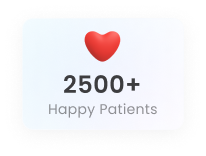
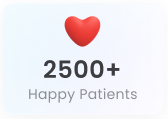
Refinement burger menu ul>li 2

Changed region(s): [[0.1488, 0.479, 0.8333, 0.8824], [0.3571, 0.1261, 0.625, 0.3529], [0.4464, 0.3277, 0.5655, 0.4034]]

diff --git a/css/style.css b/css/style.css
@@ -198,6 +198,10 @@ header .container .burger-menu_nav ul li .burger-menu_link {
     margin-right: 30px;
   }
 }
+header .container .burger-menu_nav ul li .burger-menu_link:hover {
+  color: #40A3F8;
+  opacity: 1;
+}
 header .container .burger-menu_active .burger-menu_nav {
   right: 0;
   -webkit-transition: 0.4s;
@@ -422,7 +426,7 @@ header .container .burger-menu_active .burger-menu_nav {
 }
 .main_banner .container .container_box_text form .form_select_geo:before {
   content: "";
-  background-image: url("/images/location_svg_4.svg");
+  background-image: url("../images/location_svg_4.svg");
   height: 18px;
   width: 15px;
   background-size: cover;
@@ -708,23 +712,23 @@ header .container .burger-menu_active .burger-menu_nav {
 }
 @media screen and (max-width: 470px) {
   .main_banner .female-doctor .icon_happy_patient {
-    left: 47%;
+    left: 52%;
   }
 }
 .main_banner .female-doctor .icon_happy_patient img {
-  width: 162px;
-  height: 112px;
+  width: 130px;
+  height: 90px;
 }
 @media screen and (max-width: 620px) {
   .main_banner .female-doctor .icon_happy_patient img {
-    width: 140px;
-    height: 90px;
+    width: 120px;
+    height: 85px;
   }
 }
 @media screen and (max-width: 470px) {
   .main_banner .female-doctor .icon_happy_patient img {
-    width: 100px;
-    height: 70px;
+    width: 90px;
+    height: 60px;
   }
 }
 .main_banner .female-doctor .icon_patient_review {
@@ -873,7 +877,7 @@ header .container .burger-menu_active .burger-menu_nav {
   align-items: center;
   text-decoration: none;
 }
-.three_easy_steps .container .box_content .content a h4 {
+.three_easy_steps .container .box_content .content a .span_main {
   font-family: "Roboto", sans-serif;
   font-weight: 500;
   font-size: 20px;
@@ -884,17 +888,17 @@ header .container .burger-menu_active .burger-menu_nav {
   padding-top: 26px;
 }
 @media screen and (max-width: 600px) {
-  .three_easy_steps .container .box_content .content a h4 {
+  .three_easy_steps .container .box_content .content a .span_main {
     font-size: 18px;
     line-height: 30px;
   }
 }
 @media screen and (max-width: 428px) {
-  .three_easy_steps .container .box_content .content a h4 {
+  .three_easy_steps .container .box_content .content a .span_main {
     padding-bottom: 0;
   }
 }
-.three_easy_steps .container .box_content .content a p {
+.three_easy_steps .container .box_content .content a .span_secondary {
   font-family: "Roboto", sans-serif;
   font-weight: 400;
   font-size: 12px;
@@ -905,13 +909,13 @@ header .container .burger-menu_active .burger-menu_nav {
   margin: auto;
 }
 @media screen and (max-width: 600px) {
-  .three_easy_steps .container .box_content .content a p {
+  .three_easy_steps .container .box_content .content a .span_secondary {
     font-size: 10px;
     line-height: 18px;
   }
 }
 @media screen and (max-width: 428px) {
-  .three_easy_steps .container .box_content .content a p {
+  .three_easy_steps .container .box_content .content a .span_secondary {
     padding-bottom: 50px;
   }
 }
@@ -988,7 +992,7 @@ header .container .burger-menu_active .burger-menu_nav {
 }
 @media screen and (max-width: 428px) {
   .quality_doctors .container img {
-    height: 40vh;
+    height: 36vh;
   }
 }
 .quality_doctors .container .box_text {

diff --git a/index.html b/index.html
@@ -88,9 +88,9 @@
                         <img src="images/search.png" alt="search">
                     </div>
                     <a href="#">
-                        <h4>Find best doctor’s</h4>
-                        <p>Find your doctor easily with a minimum of effort. We've kept everything organised for
-                            you.</p>
+                        <span class="span_main">Find best doctor’s</span>
+                        <span class="span_secondary">Find your doctor easily with a minimum of effort. We've kept everything organised for
+                            you.</span>
                     </a>
                 </div>
                 <div class="content">
@@ -98,9 +98,9 @@
                         <img src="images/calendar.png" alt="calendar">
                     </div>
                     <a href="#">
-                        <h4>Get Appointment</h4>
-                        <p>Ask for an appointment of the doctor quickly with almost a single click. We take care of the
-                            rest.</p>
+                        <span class="span_main">Get Appointment</span>
+                        <span class="span_secondary">Ask for an appointment of the doctor quickly with almost a single click. We take care of the
+                            rest.</span>
                     </a>
                 </div>
                 <div class="content">
@@ -108,8 +108,8 @@
                         <img src="images/online_healthcare.png" alt="online healthcare">
                     </div>
                     <a href="#">
-                        <h4>Happy Consultations</h4>
-                        <p>Do consultations and take the service based on your appointment. Get back to good health</p>
+                        <span class="span_main">Happy Consultations</span>
+                        <span class="span_secondary">Do consultations and take the service based on your appointment. Get back to good health</span>
                     </a>
                 </div>
             </div>

diff --git a/css/style.scss b/css/style.scss
@@ -190,6 +190,10 @@ header {
           @include max-screen(950px) {
             margin-right: 30px;
           }
+            &:hover {
+              color: #40A3F8;
+              opacity: 1;
+            }
 
         }
       }
@@ -387,7 +391,7 @@ header {
 
           &:before {
             content: "";
-            background-image: url("/images/location_svg_4.svg");
+            background-image: url("../images/location_svg_4.svg");
             height: 18px;
             width: 15px;
             background-size: cover;
@@ -615,19 +619,19 @@ header {
         left: 53%;
       }
       @include max-screen(470px) {
-        left: 47%;
+        left: 52%;
       }
 
       img {
-        width: 162px;
-        height: 112px;
+        width: 130px;
+        height: 90px;
         @include max-screen(620px) {
-          width: 140px;
-          height: 90px;
+          width: 120px;
+          height: 85px;
         }
         @include max-screen(470px) {
-          width: 100px;
-          height: 70px;
+          width: 90px;
+          height: 60px;
         }
       }
     }
@@ -756,7 +760,7 @@ header {
           flex-direction: column;
           align-items: center;
           text-decoration: none;
-          h4 {
+          .span_main {
             font-family: 'Roboto', sans-serif;
             font-weight: 500;
             font-size: 20px;
@@ -773,7 +777,7 @@ header {
               padding-bottom: 0;
             }
           }
-          p {
+          .span_secondary {
             font-family: 'Roboto', sans-serif;
             font-weight: 400;
             font-size: 12px;
@@ -851,7 +855,7 @@ header {
         height: 50vh;
       }
       @include max-screen(428px) {
-        height: 40vh;
+        height: 36vh;
       }
     }
     .box_text {
